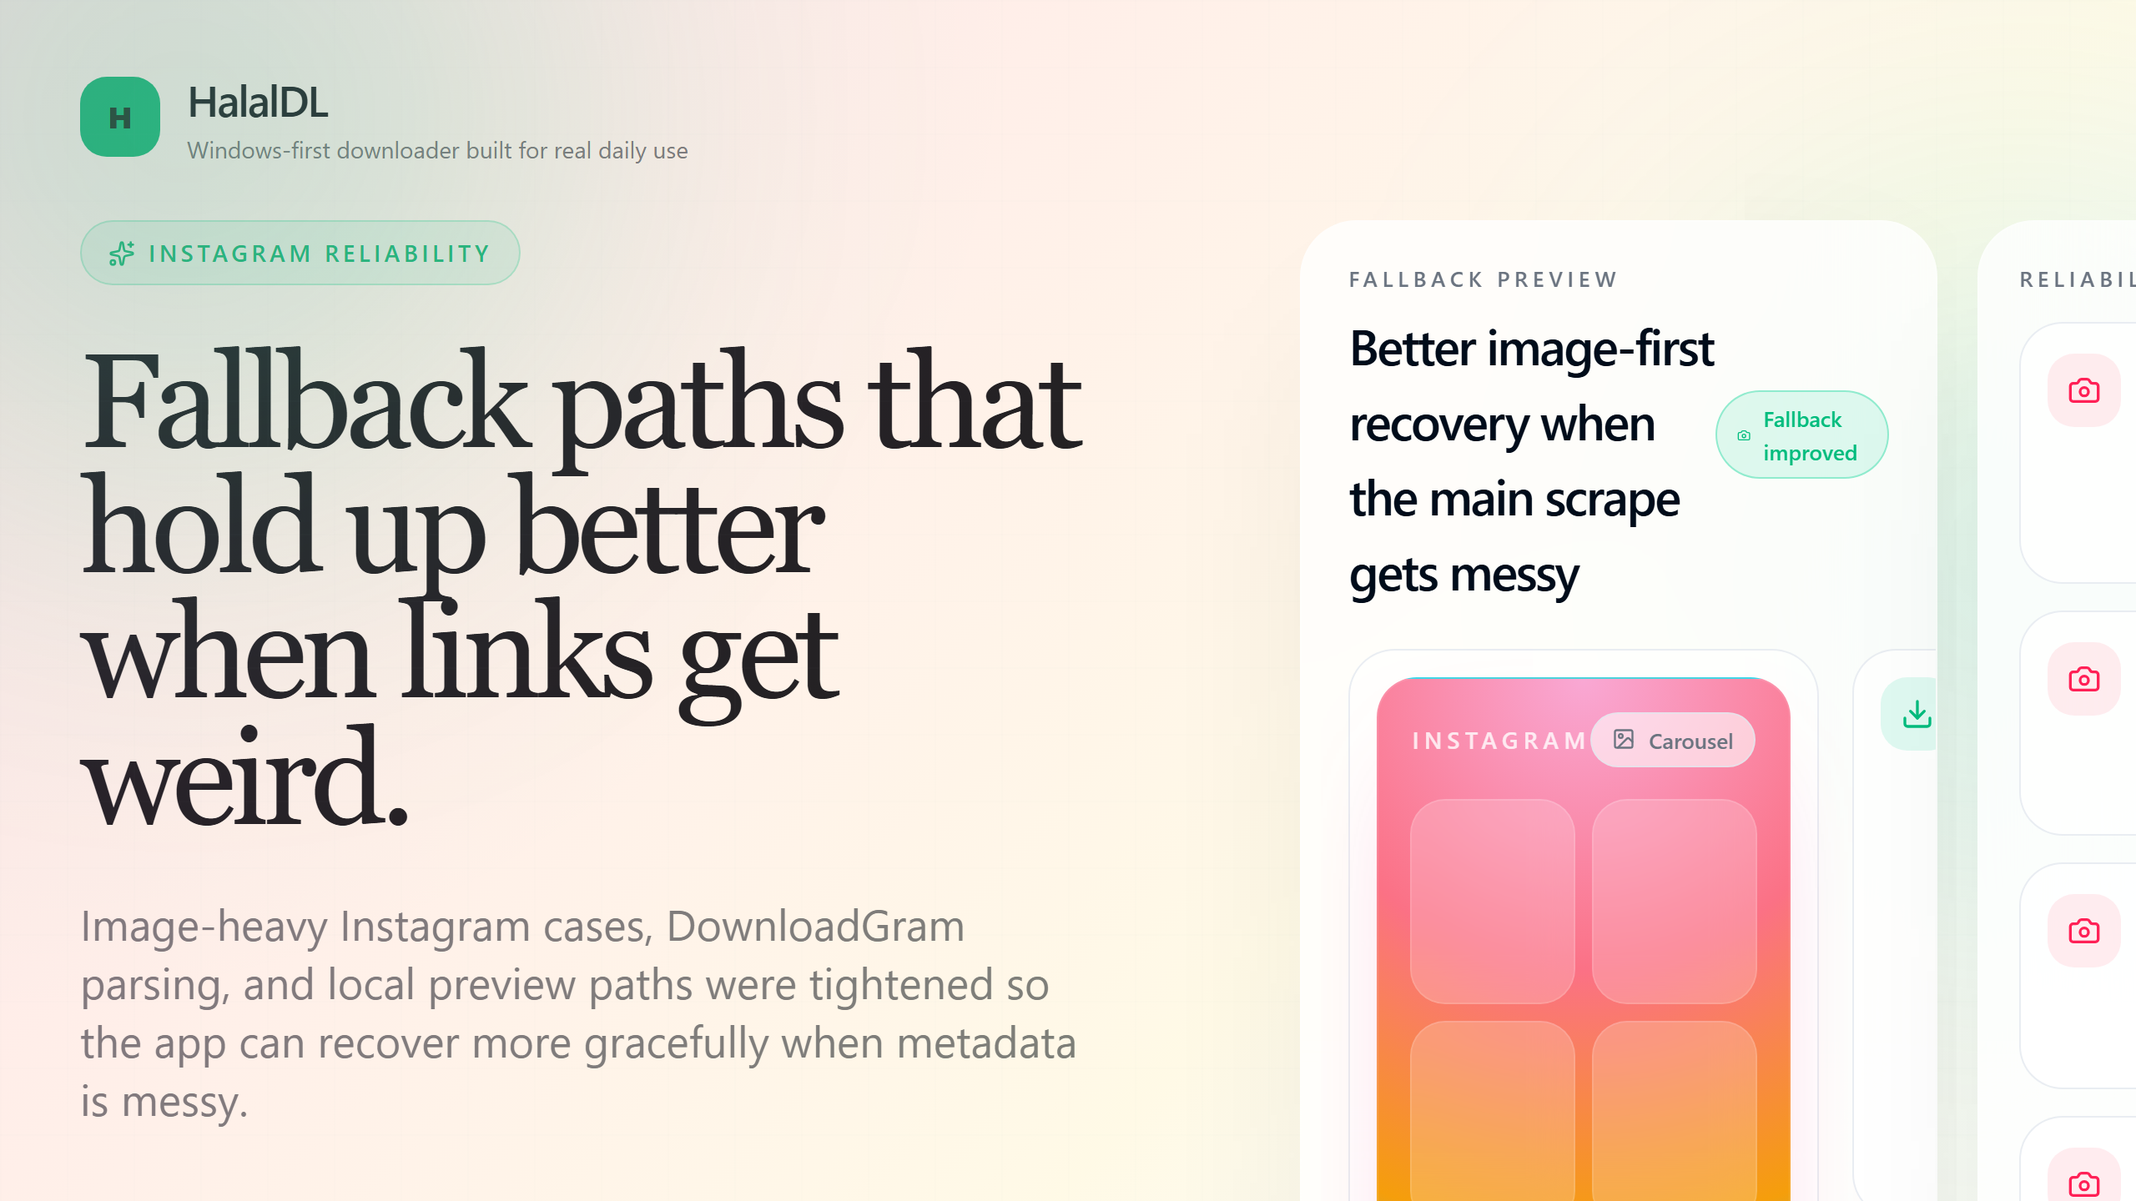
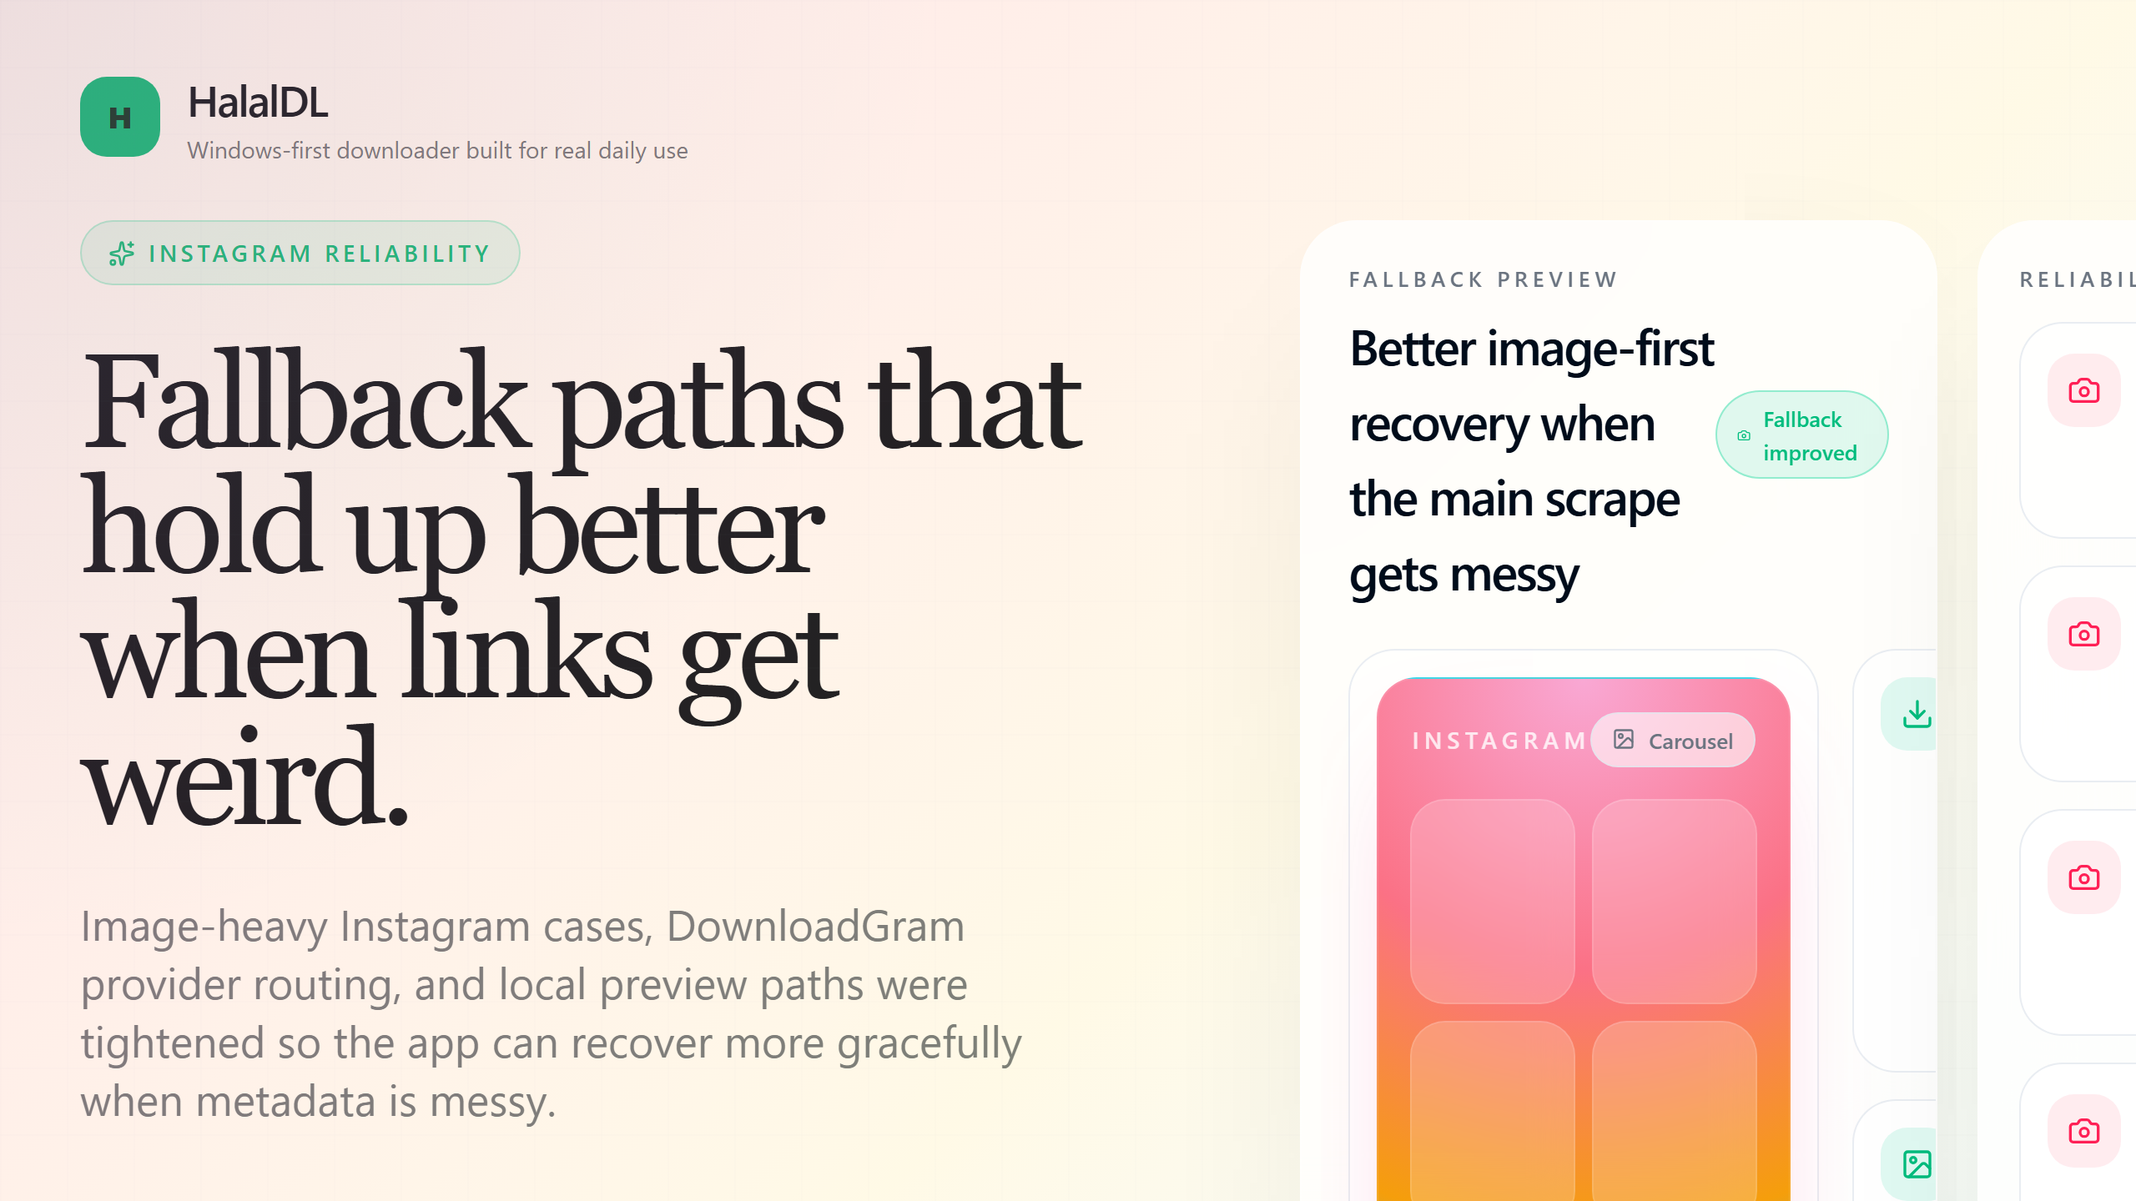
v0.5.0 release notes, promo assets & UI copy
Update changelog and v0.5.0 release docs (bumped release date, added Portable mode details, DownloadGram provider routing, health-checks, and removed the stale portable updater). Refresh promo images for light/dark variants. Adjust ReleasePromoBoard.tsx copy and behavior to surface editable DownloadGram .app/.org routes and route health checks, tweak Portable messaging, add a useEffect to toggle root theme classes, refine component type imports, and remove some decorative backdrop elements.

diff --git a/src/release-assets/ReleasePromoBoard.tsx b/src/release-assets/ReleasePromoBoard.tsx
@@ -15,6 +15,7 @@ import {
   Sparkles,
   WandSparkles,
 } from "lucide-react";
+import { useEffect, type ComponentType, type PropsWithChildren } from "react";
 import { cn } from "@/lib/utils";
 
 type ThemeName = "light" | "dark";
@@ -33,10 +34,10 @@ const sceneCopy: Record<SceneName, SceneCopy> = {
     eyebrow: "v0.5.0 · Portable Workflow Update",
     title: "Three ways to run HalalDL.\nOne cleaner daily flow.",
     body:
-      "Portable joins Full and Lite, Instagram fallback got more reliable, and finished downloads now carry richer metadata, previews, and archive context.",
+      "Portable joins Full and Lite, DownloadGram providers are easier to keep current, and finished downloads now carry richer metadata, previews, and archive context.",
     bullets: [
       "New Portable ZIP with bundled tools beside the app",
-      "Stronger Instagram and DownloadGram fallback handling",
+      "Editable DownloadGram provider routes for .app and .org",
       "Archive, thumbnails, metadata, and contact-sheet improvements",
     ],
     accentLabel: "Portable release ready",
@@ -49,7 +50,7 @@ const sceneCopy: Record<SceneName, SceneCopy> = {
     bullets: [
       "portable-data stores state, tools, thumbnails, and archive beside the EXE",
       "Bundled yt-dlp, ffmpeg, ffprobe, aria2c, and deno",
-      "Manual GitHub Releases update path instead of an in-place self-updater",
+      "Manual GitHub Releases update path with the stale updater removed",
     ],
     accentLabel: "Portable bundle detected",
   },
@@ -57,11 +58,11 @@ const sceneCopy: Record<SceneName, SceneCopy> = {
     eyebrow: "Instagram reliability",
     title: "Fallback paths that\nhold up better\nwhen links get weird.",
     body:
-      "Image-heavy Instagram cases, DownloadGram parsing, and local preview paths were tightened so the app can recover more gracefully when metadata is messy.",
+      "Image-heavy Instagram cases, DownloadGram provider routing, and local preview paths were tightened so the app can recover more gracefully when metadata is messy.",
     bullets: [
-      "Hardened DownloadGram URL parsing",
+      "DownloadGram .app and .org endpoints live in editable JSON",
+      "Route health checks flag provider drift before a release",
       "Better fallback media fetches and thumbnail selection",
-      "Richer finished-result metadata and more dependable image previews",
     ],
     accentLabel: "Fallback path improved",
   },
@@ -100,6 +101,16 @@ function SceneShell({
 }) {
   const copy = sceneCopy[scene];
   const isDark = theme === "dark";
+
+  useEffect(() => {
+    const root = document.documentElement;
+    root.classList.toggle("dark", isDark);
+    root.classList.toggle("light", !isDark);
+
+    return () => {
+      root.classList.remove("dark", "light");
+    };
+  }, [isDark]);
 
   const shellClass = isDark ? "dark" : "";
   return (
@@ -178,9 +189,6 @@ function ReleaseBackdrop({ scene }: { scene: SceneName }) {
   return (
     <>
       <div className="absolute inset-0 bg-[radial-gradient(circle_at_top_left,rgba(16,185,129,0.09),transparent_32%),radial-gradient(circle_at_bottom_right,rgba(14,165,233,0.08),transparent_30%)]" />
-      <div className="absolute left-[-120px] top-[-160px] h-[460px] w-[460px] rounded-full bg-emerald-400/18 blur-[110px]" />
-      <div className="absolute right-[-140px] top-[120px] h-[420px] w-[420px] rounded-full bg-cyan-400/14 blur-[120px]" />
-      <div className="absolute bottom-[-220px] left-[30%] h-[420px] w-[560px] rounded-full bg-amber-300/10 blur-[135px]" />
       <div className={cn("absolute inset-0 bg-gradient-to-br", accentMap[scene])} />
       <div
         className="absolute inset-0 opacity-[0.08]"
@@ -211,7 +219,7 @@ function SceneVisual({ scene }: { scene: SceneName }) {
 function Surface({
   className,
   children,
-}: React.PropsWithChildren<{ className?: string }>) {
+}: PropsWithChildren<{ className?: string }>) {
   return (
     <div
       className={cn(
@@ -229,7 +237,7 @@ function MiniChip({
   text,
   tone = "default",
 }: {
-  icon: React.ComponentType<{ className?: string }>;
+  icon: ComponentType<{ className?: string }>;
   text: string;
   tone?: "default" | "good";
 }) {
@@ -332,7 +340,7 @@ function HeroScene() {
           </div>
           <div className="mt-5 space-y-3">
             <FeatureRow icon={PackageCheck} title="Portable build" body="Bundled binaries, portable-data layout, manual release-page updates." />
-            <FeatureRow icon={Camera} title="Stronger fallbacks" body="Instagram and DownloadGram recovery paths are less brittle." />
+            <FeatureRow icon={Camera} title="Editable fallbacks" body="DownloadGram .app and .org routes can be adjusted without rewriting the downloader." />
             <FeatureRow icon={FolderArchive} title="Richer finished jobs" body="Archive, thumbnails, metadata, and contact-sheet support land together." />
           </div>
         </Surface>
@@ -370,7 +378,7 @@ function PortableScene() {
               <InfoPill label="Installer type" value="Portable ZIP" />
               <InfoPill label="Install scope" value="portable-data" />
               <InfoPill label="Managed tools" value="yt-dlp · ffmpeg · aria2 · deno" />
-              <InfoPill label="Update action" value="Open Releases page" />
+              <InfoPill label="Update action" value="Open Releases page only" />
             </div>
             <div className="mt-6 flex gap-3">
               <ActionButton primary icon={ArrowUpRight} label="Open GitHub Releases" />
@@ -382,7 +390,7 @@ function PortableScene() {
       <div className="grid grid-cols-3 gap-4">
         <StatPanel icon={PackageCheck} title="Fixed startup probe" body="Portable mode now checks bundled files directly in portable-data/bin." />
         <StatPanel icon={HardDriveDownload} title="No AppData dependency" body="Portable state and managed binaries stay beside the executable." />
-        <StatPanel icon={ShieldCheck} title="Safer updates" body="Release-page updates replace the older staged updater path." />
+        <StatPanel icon={ShieldCheck} title="Safer updates" body="Release-page updates replace the older staged updater path, and that updater code is gone." />
       </div>
     </div>
   );
@@ -420,9 +428,9 @@ function InstagramScene() {
               </div>
             </div>
             <div className="space-y-4">
-              <FeatureRow icon={Download} title="Stricter link parsing" body="Odd share URLs and fallback links are normalized more carefully before request time." />
+              <FeatureRow icon={Download} title="Editable provider routes" body="DownloadGram .app and .org endpoints now live in JSON with provider-specific fields." />
               <FeatureRow icon={ImageIcon} title="Better thumbnail paths" body="Image-heavy jobs can reuse downloaded local media as a cleaner preview source." />
-              <FeatureRow icon={Layers3} title="Richer finished metadata" body="Completed results keep more context for cards, previews, and later browsing." />
+              <FeatureRow icon={Layers3} title="Route health check" body="A release-time probe catches simple endpoint drift before users feel it." />
             </div>
           </div>
         </div>
@@ -432,10 +440,10 @@ function InstagramScene() {
           Reliability pass
         </div>
         <div className="mt-4 space-y-4">
-          <ProbeRow title="DownloadGram URL normalization" detail="Cleaner path extraction and fewer bad share-link assumptions." />
+          <ProbeRow title="downloadgram.app provider" detail="Posts to the current api.downloadgram.app media route." />
+          <ProbeRow title="downloadgram.org provider" detail="Posts to the current api.downloadgram.org media route with v=3." />
           <ProbeRow title="Fallback media fetch selection" detail="More resilient handling for image-only and carousel cases." />
           <ProbeRow title="Thumbnail and preview handoff" detail="Finished cards can lean on local outputs when they exist." />
-          <ProbeRow title="Result card context" detail="Output parsing and metadata capture widened for post-download clarity." />
         </div>
       </Surface>
     </div>
@@ -547,7 +555,7 @@ function ModeRow({
   note,
   highlight = false,
 }: {
-  icon: React.ComponentType<{ className?: string }>;
+  icon: ComponentType<{ className?: string }>;
   name: string;
   note: string;
   highlight?: boolean;
@@ -582,7 +590,7 @@ function FeatureRow({
   title,
   body,
 }: {
-  icon: React.ComponentType<{ className?: string }>;
+  icon: ComponentType<{ className?: string }>;
   title: string;
   body: string;
 }) {
@@ -650,7 +658,7 @@ function ActionButton({
   label,
   primary = false,
 }: {
-  icon: React.ComponentType<{ className?: string }>;
+  icon: ComponentType<{ className?: string }>;
   label: string;
   primary?: boolean;
 }) {
@@ -674,7 +682,7 @@ function StatPanel({
   title,
   body,
 }: {
-  icon: React.ComponentType<{ className?: string }>;
+  icon: ComponentType<{ className?: string }>;
   title: string;
   body: string;
 }) {
@@ -729,7 +737,7 @@ function SnapshotTile({
   icon: Icon,
 }: {
   label: string;
-  icon: React.ComponentType<{ className?: string }>;
+  icon: ComponentType<{ className?: string }>;
 }) {
   return (
     <div className="rounded-[26px] border border-border/70 bg-background/55 p-4">

diff --git a/docs/releases/v0.5.0-github.md b/docs/releases/v0.5.0-github.md
@@ -1,6 +1,6 @@
 # v0.5.0 - The Portable Workflow Update
 
-Released: 2026-04-28
+Released: 2026-05-05
 
 HalalDL v0.5.0 expands the release into a three-lane setup: Full, Lite, and the new Portable build. The goal of this update is simple: make HalalDL easier to carry onto locked-down Windows machines, strengthen Instagram and fallback download reliability, and make completed downloads more useful after they finish.
 
@@ -20,7 +20,7 @@ HalalDL now supports a dedicated Portable package for Windows users who cannot o
 * Portable builds keep the app, state, thumbnails, archive, and managed tools beside the executable under `portable-data`.
 * The portable package bundles `yt-dlp`, `ffmpeg`, `ffprobe`, `aria2c`, and `deno` so it can work without a separate tools install flow.
 * Startup tool detection now checks the portable bundle directly instead of treating the package like a normal installed build.
-* Portable mode no longer tries to self-update in place. It opens GitHub Releases for manual ZIP updates instead.
+* Portable mode no longer tries to self-update in place. It opens GitHub Releases for manual ZIP updates instead, and the old portable updater command/source path has been removed.
 
 ![Portable mode - light](https://raw.githubusercontent.com/Asdmir786/HalalDL/main/docs/assets/releases/0.5.0/promo/portable-mode-light.png)
 ![Portable mode - dark](https://raw.githubusercontent.com/Asdmir786/HalalDL/main/docs/assets/releases/0.5.0/promo/portable-mode-dark.png)
@@ -31,7 +31,9 @@ HalalDL now supports a dedicated Portable package for Windows users who cannot o
 
 The Instagram and DownloadGram paths were hardened so image-heavy and fallback-heavy cases hold together more reliably.
 
-* DownloadGram URL parsing is stricter and less likely to drift on odd share links.
+* DownloadGram provider routing now lives in a small editable JSON config instead of being buried in downloader code.
+* The active DownloadGram fallbacks are limited to the current `.app` and `.org` providers, with their API endpoints and `.org` `v=3` form field captured directly in config.
+* A DownloadGram route health-check script can probe provider drift before a release or hotfix.
 * Instagram fallback media fetches and thumbnail handling were improved for image and carousel cases.
 * Downloaded Instagram images can feed better local preview and metadata paths instead of depending only on remote thumbnails.
 * Output parsing and metadata capture were expanded so finished results stay more informative.
@@ -63,12 +65,13 @@ Finished jobs now leave behind a stronger paper trail for browsing and reuse.
 
 * Installed builds still support verified update downloads where a direct installer is appropriate.
 * Portable installs now use the safer manual-release path instead of staging a self-updater executable.
+* The old portable updater binary entrypoint and command registration have been removed from the Tauri source tree.
 * About now reflects installer type more clearly, including Portable ZIP installs.
 
 ## Fixes & Cleanup
 
 * Fixed the portable startup tool-detection bug that could wrongly claim bundled tools were missing.
-* Hardened downloader fallback parsing and media handling.
+* Hardened downloader fallback parsing, provider routing, and media handling.
 * Expanded path and runtime handling for portable-aware storage, thumbnails, and state.
 * Removed the foreground in-app notification layer and kept the flow focused on native or routed attention.
 * Tightened storage, history, and download-card behavior around richer result data.

diff --git a/docs/releases/v0.5.0.md b/docs/releases/v0.5.0.md
@@ -1,6 +1,6 @@
 # v0.5.0 - The Portable Workflow Update
 
-Released: 2026-04-28
+Released: 2026-05-05
 
 HalalDL v0.5.0 expands the release into a three-lane setup: Full, Lite, and the new Portable build. The goal of this update is simple: make HalalDL easier to carry onto locked-down Windows machines, strengthen Instagram and fallback download reliability, and make completed downloads more useful after they finish.
 
@@ -20,7 +20,7 @@ HalalDL now supports a dedicated Portable package for Windows users who cannot o
 * Portable builds keep the app, state, thumbnails, archive, and managed tools beside the executable under `portable-data`.
 * The portable package bundles `yt-dlp`, `ffmpeg`, `ffprobe`, `aria2c`, and `deno` so it can work without a separate tools install flow.
 * Startup tool detection now checks the portable bundle directly instead of treating the package like a normal installed build.
-* Portable mode no longer tries to self-update in place. It opens GitHub Releases for manual ZIP updates instead.
+* Portable mode no longer tries to self-update in place. It opens GitHub Releases for manual ZIP updates instead, and the old portable updater command/source path has been removed.
 
 ![Portable mode - light](../assets/releases/0.5.0/promo/portable-mode-light.png)
 ![Portable mode - dark](../assets/releases/0.5.0/promo/portable-mode-dark.png)
@@ -31,7 +31,9 @@ HalalDL now supports a dedicated Portable package for Windows users who cannot o
 
 The Instagram and DownloadGram paths were hardened so image-heavy and fallback-heavy cases hold together more reliably.
 
-* DownloadGram URL parsing is stricter and less likely to drift on odd share links.
+* DownloadGram provider routing now lives in a small editable JSON config instead of being buried in downloader code.
+* The active DownloadGram fallbacks are limited to the current `.app` and `.org` providers, with their API endpoints and `.org` `v=3` form field captured directly in config.
+* A DownloadGram route health-check script can probe provider drift before a release or hotfix.
 * Instagram fallback media fetches and thumbnail handling were improved for image and carousel cases.
 * Downloaded Instagram images can feed better local preview and metadata paths instead of depending only on remote thumbnails.
 * Output parsing and metadata capture were expanded so finished results stay more informative.
@@ -63,12 +65,13 @@ Finished jobs now leave behind a stronger paper trail for browsing and reuse.
 
 * Installed builds still support verified update downloads where a direct installer is appropriate.
 * Portable installs now use the safer manual-release path instead of staging a self-updater executable.
+* The old portable updater binary entrypoint and command registration have been removed from the Tauri source tree.
 * About now reflects installer type more clearly, including Portable ZIP installs.
 
 ## Fixes & Cleanup
 
 * Fixed the portable startup tool-detection bug that could wrongly claim bundled tools were missing.
-* Hardened downloader fallback parsing and media handling.
+* Hardened downloader fallback parsing, provider routing, and media handling.
 * Expanded path and runtime handling for portable-aware storage, thumbnails, and state.
 * Removed the foreground in-app notification layer and kept the flow focused on native or routed attention.
 * Tightened storage, history, and download-card behavior around richer result data.

diff --git a/CHANGELOG.md b/CHANGELOG.md
@@ -1,5 +1,16 @@
 # Changelog
 
+## 0.5.0 - 2026-05-05
+- **Portable Mode (#8)**: Added a dedicated Portable ZIP for Windows, with app state, thumbnails, archive data, and managed tools stored beside the executable under `portable-data`.
+- **Portable Tools**: Bundled `yt-dlp`, `ffmpeg`, `ffprobe`, `aria2c`, and `deno` for Portable builds so locked-down setups can run without a separate tool install flow.
+- **Portable Updates**: Removed the stale portable self-updater path. Portable builds now open GitHub Releases for manual ZIP replacement instead of staging an in-place updater executable.
+- **DownloadGram Providers**: Moved DownloadGram provider routing into an editable JSON config, keeping only the current `.app` and `.org` providers and their live API endpoints.
+- **DownloadGram Health Checks**: Added a route probe script so provider endpoint drift can be checked without changing downloader code.
+- **Instagram Reliability**: Hardened DownloadGram parsing, fallback media fetches, thumbnail selection, and image/carousel handling for tougher Instagram cases.
+- **Archive / Results**: Added richer download archive context, stronger finished-result metadata, better thumbnail carry-through, and contact-sheet support for image-heavy jobs.
+- **Managed Tools / Updates**: Tightened tool target visibility, startup setup prompts, backup cleanup, path handling, and installer-type messaging across Full, Lite, and Portable modes.
+- **Release Assets**: Refreshed the v0.5.0 release notes and GitHub-ready light/dark promo image set.
+
 ## 0.4.1 - 2026-04-12
 - **Presets / Filenames (#5)**: Added preset-level filename templates so custom presets can define their own saved-file naming pattern without forcing every download to override it manually.
 - **Quick Download Panel (#6)**: Tightened the quick panel layout by reducing repeated metadata, shortening the URL/preset controls, and keeping the download action easier to reach on smaller screens and keyboard-first setups.
